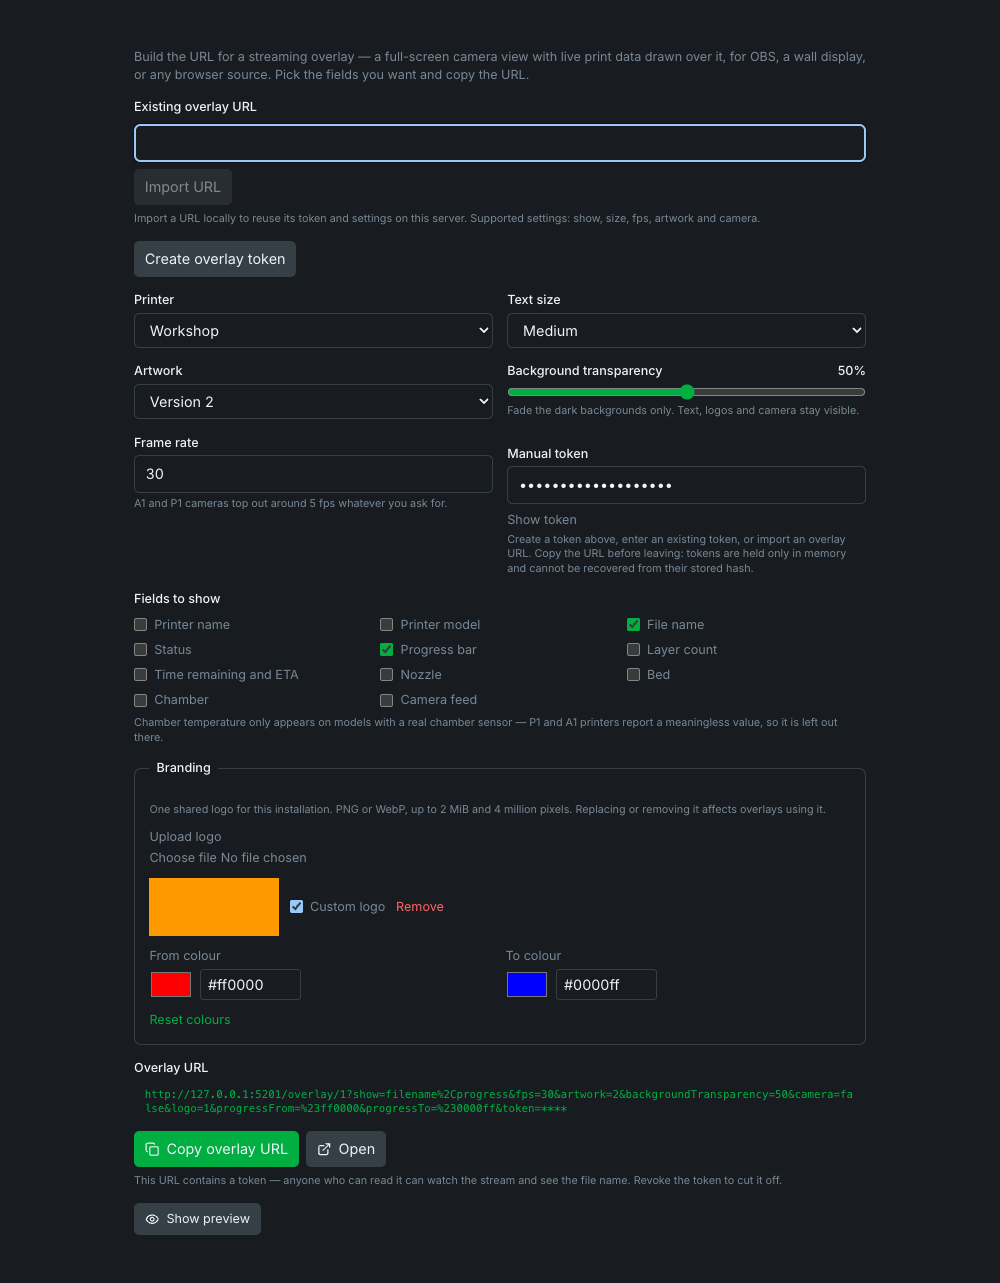
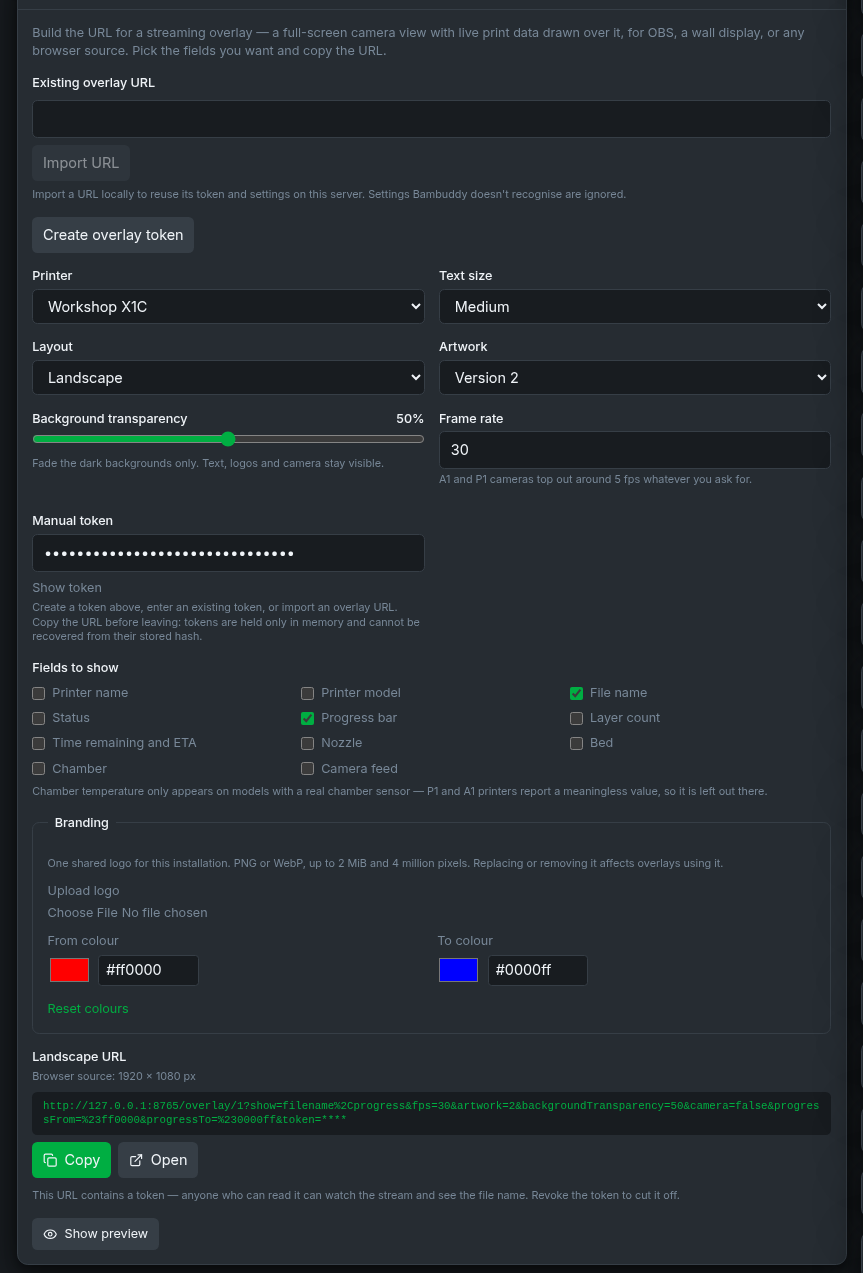
Align overlay token docs with the merged builder
Step 3 names the Copy button, the import section lists layout and
background transparency, and the leftovers from the dropped saved-token
design (encryption-key bullet, recovery-endpoint note, "no tokens are
replaced" note) are gone. The screenshot is retaken from current dev,
with the Layout picker, per-orientation URL heading and new import hint.

diff --git a/docs/features/camera.md b/docs/features/camera.md
@@ -687,26 +687,35 @@ For example: `http://192.168.1.100:8000/overlay/1`
    The builder uses the token returned at creation. You can also create one in
    **Camera API Tokens** with the **Streaming Overlay** scope and copy it into
    **Manual token**.
-3. Choose the printer and appearance settings, then choose **Copy overlay URL**.
+3. Choose the printer and appearance settings, then choose **Copy** next to the
+   URL.
 4. Paste the complete URL into OBS and keep it somewhere safe.
 
-While token creation is running, Cancel, manual entry and import are disabled so the one-time token response remains available. If creation fails, the server error is shown and those controls become available again. Import is also unavailable while a logo upload or removal is running.
+While a token is being created, Cancel, manual entry and import are disabled,
+so the token returned at creation cannot be lost. If creation fails, the
+server's error is shown and those controls become available again. Import is
+also unavailable while a logo upload or removal is running.
 
-Tokens are stored as hashes and cannot be retrieved later. The builder holds the
-credential only in memory and clears it when you leave or reload. **Manual token**
-and the generated URL are masked until you choose **Show token**; copying always
-copies the complete usable URL.
+Tokens are stored as hashes and cannot be retrieved later. The builder holds
+the token only in memory and clears it when you leave or reload the page.
+**Manual token** and the generated URL are masked until you choose **Show
+token**; **Copy** always copies the complete, working URL.
 
-To edit an existing browser source, paste its complete URL into **Existing overlay URL** and choose **Import URL**, or paste its token into **Manual token**. Import reads the URL
-locally; it does not contact the supplied server. The generated URL uses this
-Bambuddy installation, so check the selected printer when importing from another
-installation. Copy the updated URL back into OBS after changing settings. Import preserves supported printer, token, fields, text size, FPS, artwork, camera and branding settings. Like the overlay renderer, it clamps FPS to 1–30 and ignores unknown fields and parameters. Invalid URLs, duplicate token parameters, embedded username/password credentials and wrong paths are rejected without changing the current settings.
+To edit an existing browser source, paste its complete URL into **Existing
+overlay URL** and choose **Import URL**, or paste its token into **Manual
+token**. Import reads the URL in the browser; it does not contact the server
+in it. It takes the printer, token, layout, fields, text size, FPS, artwork,
+camera, background transparency and branding settings. Like the overlay page,
+it clamps FPS to 1–30 and ignores fields and parameters it doesn't know. A URL
+that isn't an overlay URL, has more than one token, or contains a user name or
+password is rejected without changing the current settings. The generated URL
+uses this Bambuddy installation, so check the selected printer when importing
+from another installation. Copy the updated URL back into OBS after changing
+settings.
 
-!!! note "Existing tokens keep working"
-    No tokens are automatically replaced or revoked. Reuse an existing token or
-    browser-source URL when you have a copy. If every copy is lost, create a
-    replacement, update and verify your sources, then revoke the old token when
-    it is no longer needed.
+!!! note "Lost every copy of a URL?"
+    A token cannot be shown again. Create a new one, update your browser
+    sources, then revoke the old token.
 
 ![Streaming Overlay builder with URL import and masked manual token entry](../assets/images/streaming-overlay/token-builder.png)
 
@@ -1112,8 +1121,7 @@ http://your-bambuddy/camwall?token=bblt_…&maxLive=9&interval=10
 ### Security & Limits
 
 - **Maximum lifetime is 365 days.** Bambuddy explicitly rejects "never expires" because a leaked permanent token would be irrevocable footgun-by-design.
-- **Hash-only storage for every scope.** Tokens cannot be recovered from their hashes. Lists expose metadata, never credentials; there is no token-recovery endpoint.
-- **No additional encryption-key requirement.** Overlay tokens do not introduce a new key or change backup-key policy. Protect any saved browser-source URLs as credentials.
+- **Tokens are stored as a hash.** A DB dump can't be replayed against the camera endpoint, and a token cannot be recovered from its hash. Token lists show names and dates, never the token itself. Treat saved browser-source URLs as credentials.
 - **Browser memory only.** The builder does not save entered, imported or newly created credentials in browser storage. Leaving or reloading clears them.
 - **Scoped, and scopes don't leak into each other.** A Camera stream token reaches only the stream and snapshot endpoints; a Cam Wall token additionally reaches the Cam Wall feed; a Streaming Overlay token additionally reaches one printer's overlay status and the shared overlay logo. None can call any other Bambuddy API, and none exposes an IP address, serial number or access code.
 - **Revocable at any time.** Owners can revoke their own tokens; admins can revoke anyone's from the same panel.
